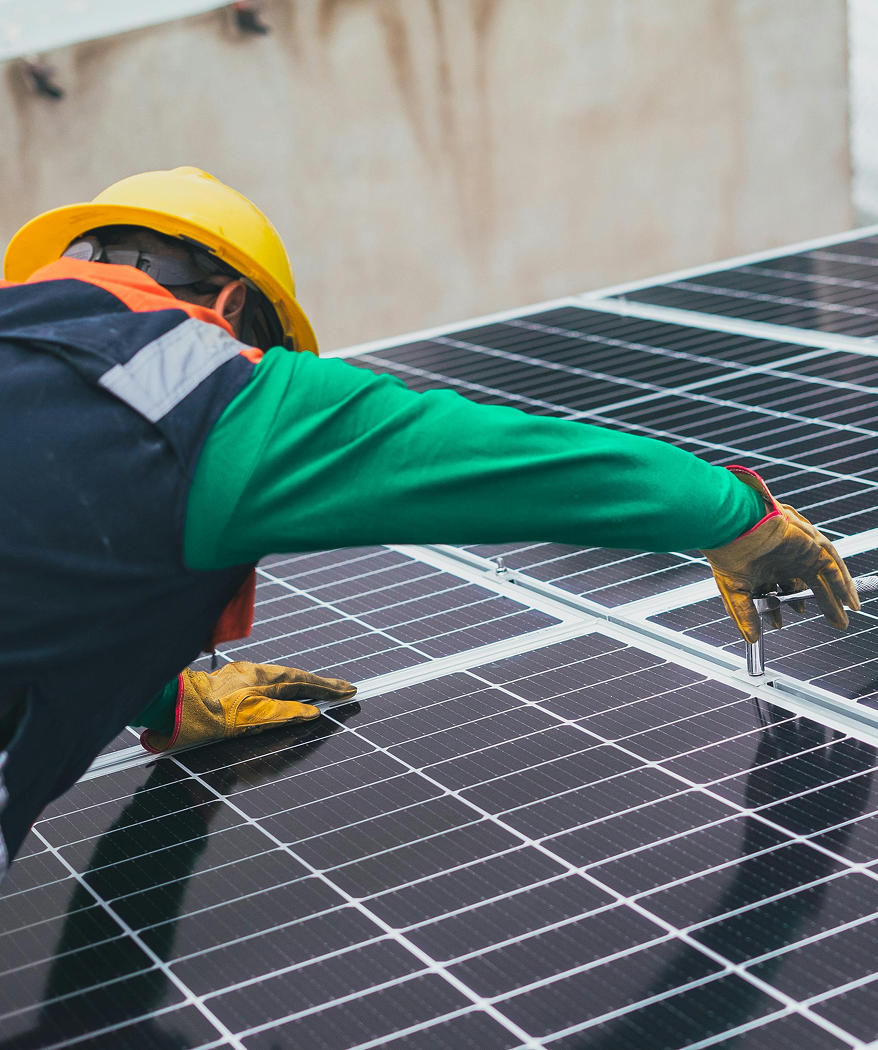
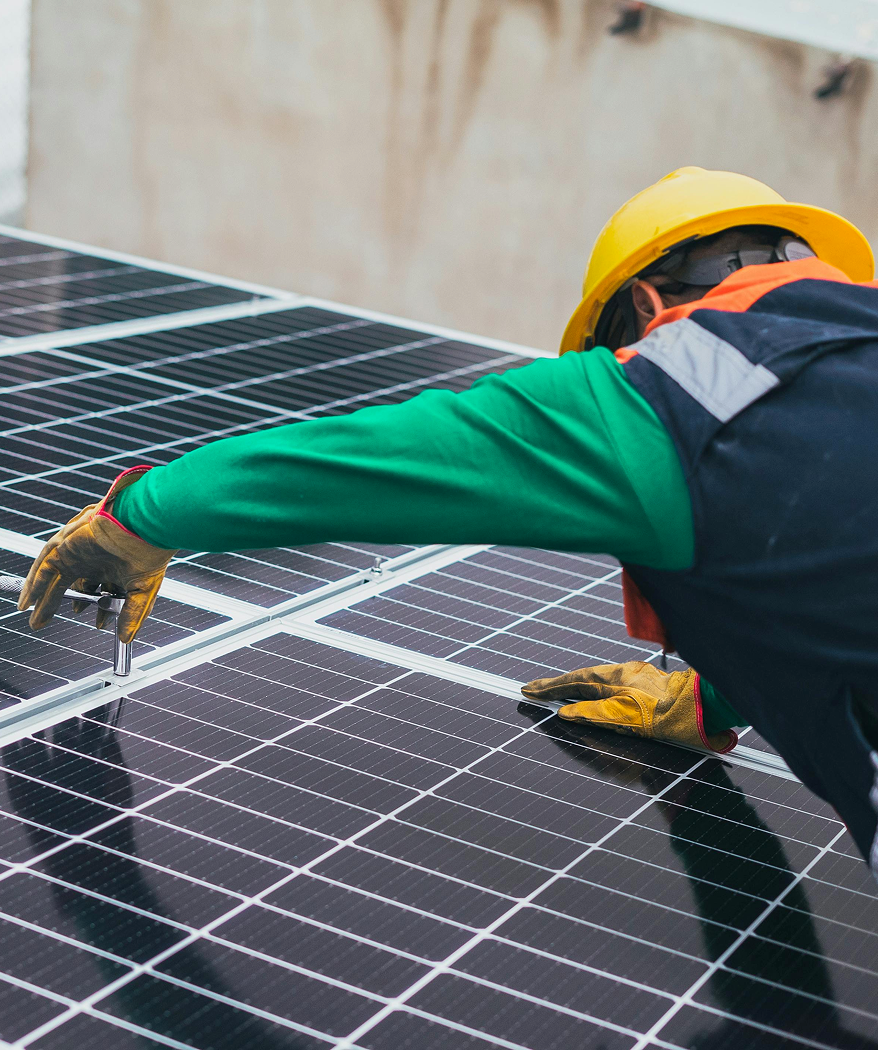
feat: add WhyEnergieBee section and migrate FeatureCard glyphs to SVGs
- Add new WhyEnergieBee section (phone-left / cards-middle / cluster-right
  layout) reusing WhyChoose's FeatureCard content with an
  EnergyAnalytics-style absolute layout; cluster is horizontally flipped
  via transform-[scaleX(-1)] and the phone is hidden below lg
- Wire WhyEnergieBee into the home page between SmartEnergyManagement
  and EnergyForecasting
- Replace FeatureCard's inline HexBadge SVGs with static assets
  (hexa-sun, hexa-dollar, hexa-chart) rendered through next/image,
  driven by a GLYPH_SVGS map keyed on GlyphName
- Tweak EnergyAnalytics positioning and SmartEnergyManagement padding
- Refresh public/why-energieBee.png asset

diff --git a/app/components/sections/WhyEnergieBee.tsx b/app/components/sections/WhyEnergieBee.tsx
@@ -1,0 +1,55 @@
+import { HIVE_3_PLACEMENTS, HIVE_3_VIEWBOX } from "@/app/lib/hex";
+import AnalyticsPhone from "../mockups/AnalyticsPhone";
+import SharedImageHexCluster from "../ui/SharedImageHexCluster";
+import { FeatureCard, SectionLead, SectionTitle } from "../ui/SectionContent";
+import sideImage from "@/public/why-energieBee.png";
+import Image from "next/image";
+import deviceImg from "@/public/energy-saving-device.png";
+
+export default function WhyEnergieBee() {
+  return (
+    <section className="relative overflow-hidden bg-[#F7F7F7] py-16 sm:py-20 lg:py-47">
+      <div className="relative mx-auto flex flex-col max-w-7xl grid-cols-1 items-center gap-12 lg:grid-cols-[1fr_1.2fr_1fr] lg:gap-10">
+        {/* left: phone (absolute, bleeds into the section like EnergyAnalytics) */}
+        <div className="hidden lg:block lg:justify-end absolute left-0 -top-7 max-w-[345.3px]">
+          <Image src={deviceImg} alt="energy analytics dashboard" />
+        </div>
+
+        {/* middle: title + lead + feature cards */}
+        <div className="max-w-111.5">
+          <SectionTitle>Why Choose energiebee Solar?</SectionTitle>
+          <SectionLead>
+            Part of the energiebee app — everything you need to monitor and
+            optimize your solar energy system.
+          </SectionLead>
+          <div className="mt-8 space-y-4">
+            <FeatureCard
+              glyph="sun"
+              title="Maximize Production"
+              description="Track real-time solar generation and get insights to optimize energy production."
+            />
+            <FeatureCard
+              glyph="dollar"
+              title="Track Savings"
+              description="See exactly how much money you're saving with detailed analytics and historical comparisons."
+            />
+            <FeatureCard
+              glyph="chart"
+              title="Smart Analytics"
+              description="Get detailed insights on production patterns, grid independence, and environmental impact."
+            />
+          </div>
+        </div>
+
+        {/* right: 3-hex hive cluster — installer photo masked through the hive */}
+        <SharedImageHexCluster
+          src={sideImage.src}
+          viewBox={HIVE_3_VIEWBOX}
+          placements={HIVE_3_PLACEMENTS}
+          fallbackColor="#3a4a5c"
+          className="mx-auto w-full max-w-100 sm:max-w-110 lg:max-w-125.5 absolute -right-40 top-0 transform-[scaleX(-1)] hidden lg:block"
+        />
+      </div>
+    </section>
+  );
+}

diff --git a/app/components/ui/SectionContent.tsx b/app/components/ui/SectionContent.tsx
@@ -1,7 +1,17 @@
-import Image from "next/image";
+import Image, { type StaticImageData } from "next/image";
 import { type ReactNode } from "react";
 import { HEX_PATH } from "@/app/lib/hex";
 import hexaCheck from "@/public/hexa-check.svg";
+import hexaSun from "@/public/hexa-sun.svg";
+import hexaDollar from "@/public/hexa-dollar.svg";
+import hexaChart from "@/public/hexa-chart.svg";
+
+const GLYPH_SVGS: Record<GlyphName, StaticImageData> = {
+  check: hexaCheck,
+  sun: hexaSun,
+  dollar: hexaDollar,
+  chart: hexaChart,
+};
 
 /** Names of the glyph drawn inside a yellow hex badge. */
 export type GlyphName = "check" | "sun" | "dollar" | "chart";
@@ -193,7 +203,7 @@ export function SectionLead({
 }) {
   return (
     <p
-      className={`mt-4 max-w-xl text-base leading-relaxed text-neutral-600 sm:text-lg ${className}`}
+      className={`mt-4 max-w-xl text-base leading-relaxed text-[#545454] sm:text-base ${className}`}
     >
       {children}
     </p>
@@ -246,11 +256,16 @@ export function FeatureCard({
   description: string;
 }) {
   return (
-    <div className="flex items-start gap-4 rounded-2xl bg-white p-5 shadow-[0_8px_30px_-12px_rgba(0,0,0,0.12)]">
-      <HexBadge glyph={glyph} className="h-11 w-12 lg:h-12 lg:w-14" />
+    <div className="flex items-start gap-4 rounded-2xl bg-white p-6 shadow-[0_8px_30px_-12px_rgba(0,0,0,0.12)]">
+      <Image
+        src={GLYPH_SVGS[glyph]}
+        alt=""
+        aria-hidden
+        className="h-11 w-12 lg:h-10 lg:w-11 mt-2.5"
+      />
       <div>
-        <h3 className="text-base font-bold text-black sm:text-lg">{title}</h3>
-        <p className="mt-1 text-sm leading-relaxed text-neutral-600 sm:text-[15px]">
+        <h3 className="text-lg font-bold text-black sm:text-lg">{title}</h3>
+        <p className="mt-1 text-sm leading-relaxed text-[#545454]">
           {description}
         </p>
       </div>

diff --git a/app/components/sections/EnergyAnalytics.tsx b/app/components/sections/EnergyAnalytics.tsx
@@ -23,7 +23,7 @@ export default function EnergyAnalytics() {
           fallbackColor="#3a4a5c"
           // bgPosition="right 120%"
           // bgSize="cover"
-          className="mx-auto w-full max-w-100 sm:max-w-110 lg:max-w-125.5 absolute -left-50 -top-10"
+          className="mx-auto w-full max-w-100 sm:max-w-110 lg:max-w-125.5 absolute -left-50 -top-10 hidden lg:block"
         />
         {/* middle: title + features */}
         <div className="max-w-111.5">
@@ -44,7 +44,7 @@ export default function EnergyAnalytics() {
           </div>
         </div>
         {/* right: analytics phone */}
-        <div className="flex justify-center lg:justify-end absolute right-0 -top-20 max-h-146.5 max-w-[286.3px]">
+        <div className="flex justify-center lg:justify-end absolute right-0 -top-20 max-h-146.5 max-w-[286.3px] hidden lg:block">
           {/* <AnalyticsPhone className="w-[260px] sm:w-[280px] lg:w-[290px]" /> */}
           <Image src={deviceImg} alt="energy analytics dashboard" />
         </div>

diff --git a/app/components/sections/SmartEnergyManagement.tsx b/app/components/sections/SmartEnergyManagement.tsx
@@ -3,8 +3,6 @@ import { FeatureItem, SectionTitle } from "../ui/SectionContent";
 import sideImg from "@/public/energy-management.png";
 import SharedImageHexCluster from "../ui/SharedImageHexCluster";
 import { HIVE_3_PLACEMENTS, HIVE_3_VIEWBOX } from "@/app/lib/hex";
-// import windTurbines from "@/public/image 16.png";
-// import solarBottom from "@/public/image 17.png";
 
 export default function SmartEnergyManagement() {
   return (

diff --git a/app/page.tsx b/app/page.tsx
@@ -3,6 +3,7 @@ import EnergyMonitoring from "./components/sections/EnergyMonitoring";
 import EnergyForecasting from "./components/sections/EnergyForecasting";
 import EnergyAnalytics from "./components/sections/EnergyAnalytics";
 import SmartEnergyManagement from "./components/sections/SmartEnergyManagement";
+import WhyEnergieBee from "./components/sections/WhyEnergieBee";
 import WhyChoose from "./components/sections/WhyChoose";
 
 export default function Home() {
@@ -12,6 +13,7 @@ export default function Home() {
       <EnergyMonitoring />
       <EnergyAnalytics />
       <SmartEnergyManagement />
+      <WhyEnergieBee />
       <EnergyForecasting />
       <WhyChoose />
     </main>